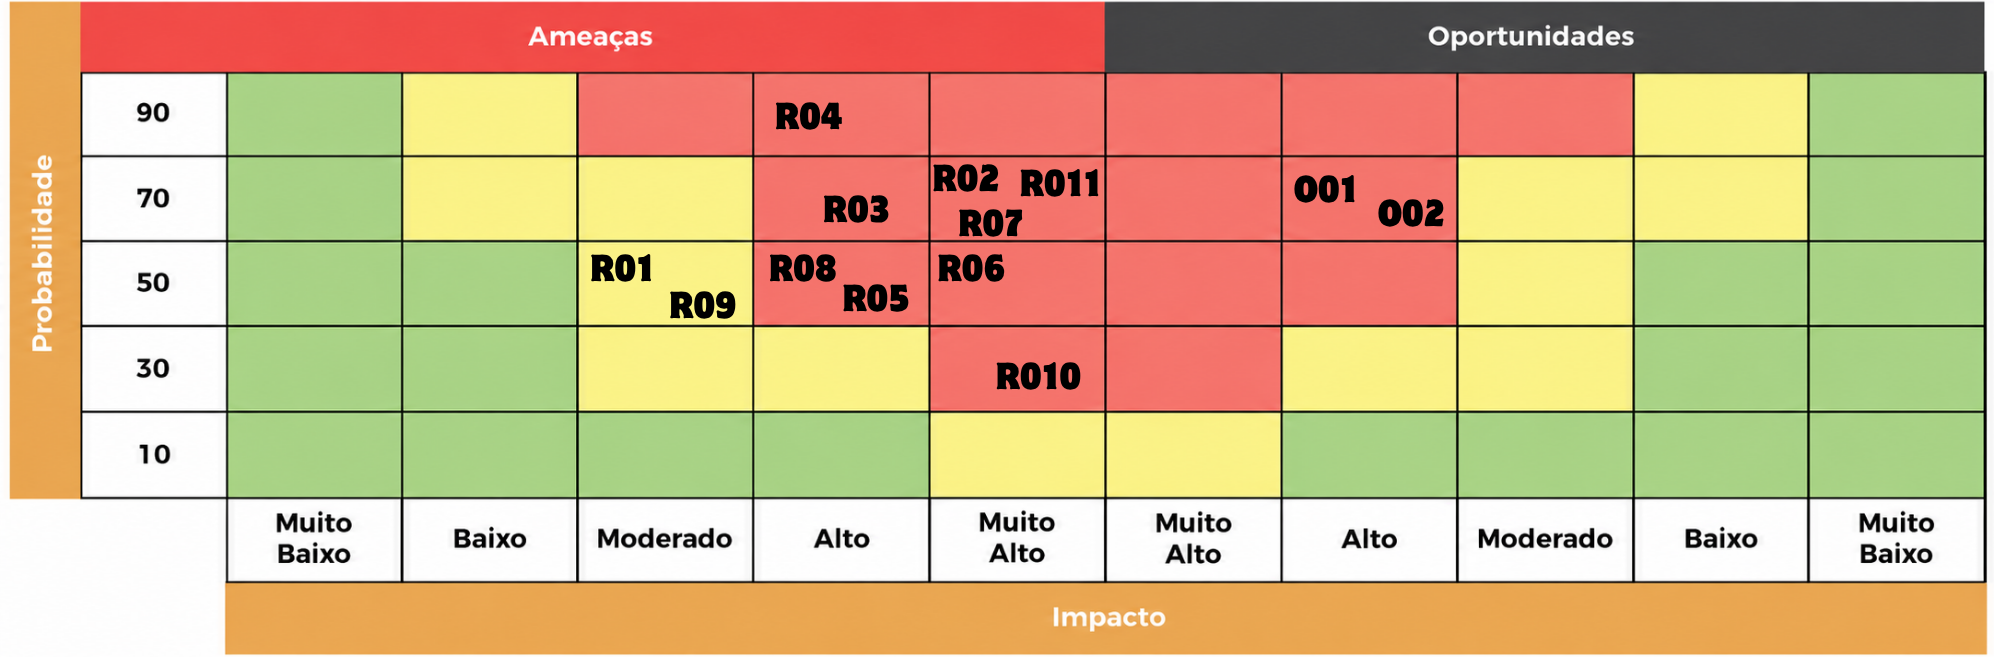
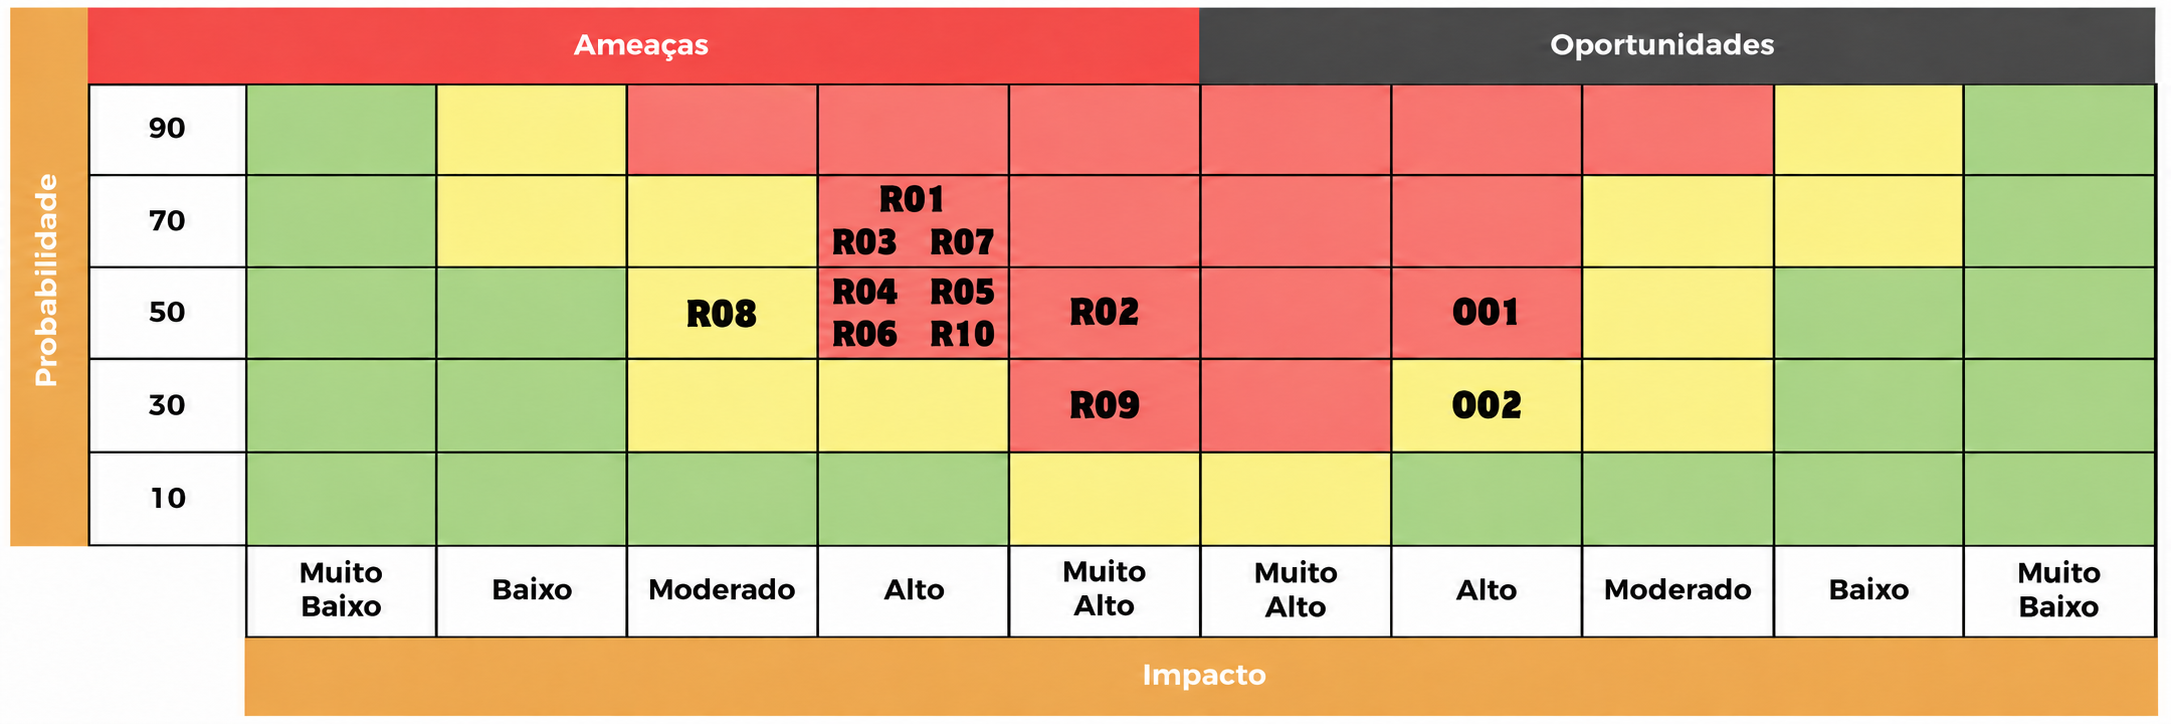
docs(#109): atualizar matriz de riscos

diff --git a/document/documentacao.md b/document/documentacao.md
@@ -156,7 +156,7 @@ Perfil do cliente: Geraldo, analista de PCM (P1), com base no TAPI [6] e no *kic
 
 ### 3.1.5. Matriz de Riscos (sprint 1)
 
-Matriz de riscos de **execução e entrega do projeto**, com níveis estimados de 10%–90% e impacto qualitativo. Falhas operacionais do produto — como ausência de GNSS, rede ou autonomia — são tratadas como requisitos e cenários de teste, e não como riscos de gestão. A figura abaixo representa a versão inicial e deverá ser substituída para refletir os IDs e níveis da tabela revisada; as [justificativas detalhadas](outros/3-desenvolvimento-resultados/3.1.5-matriz-riscos/registro-riscos-aprofundado.md) registram a versão vigente.
+Matriz de riscos de **execução e entrega do projeto**, com níveis estimados de 10%–90% e impacto qualitativo. Falhas operacionais do produto — como ausência de GNSS, rede ou autonomia — são tratadas como requisitos e cenários de teste, e não como riscos de gestão. A figura abaixo reflete os IDs e níveis da tabela revisada; as [justificativas detalhadas](outros/3-desenvolvimento-resultados/3.1.5-matriz-riscos/registro-riscos-aprofundado.md) registram a versão vigente.
 
 <div align="center">
   <p><strong>Figura 3.1.5.1 — Matriz de riscos do projeto</strong></p>

diff --git a/document/outros/3-desenvolvimento-resultados/3.1.5-matriz-riscos/registro-riscos-aprofundado.md b/document/outros/3-desenvolvimento-resultados/3.1.5-matriz-riscos/registro-riscos-aprofundado.md
@@ -1,6 +1,6 @@
 # Registro aprofundado e resposta aos riscos — Sprint 1
 
-**Escopo:** riscos capazes de comprometer execução, prazo ou entrega do projeto. Falhas de funcionamento do produto são requisitos e cenários de teste nas seções 3.3 e 3.4. Os níveis 10/30/50/70/90 são faixas ordinais do template, não probabilidades estatísticas. A figura `matrizRiscos.png` ainda representa a versão inicial e deverá ser atualizada conforme esta tabela.
+**Escopo:** riscos capazes de comprometer execução, prazo ou entrega do projeto. Falhas de funcionamento do produto são requisitos e cenários de teste nas seções 3.3 e 3.4. Os níveis 10/30/50/70/90 são faixas ordinais do template, não probabilidades estatísticas. A figura `matrizRiscos.png` representa os níveis desta tabela.
 
 | ID | Fundamentação do nível | Gatilho | Prevenção e contingência | Responsável |
 |---|---|---|---|---|
